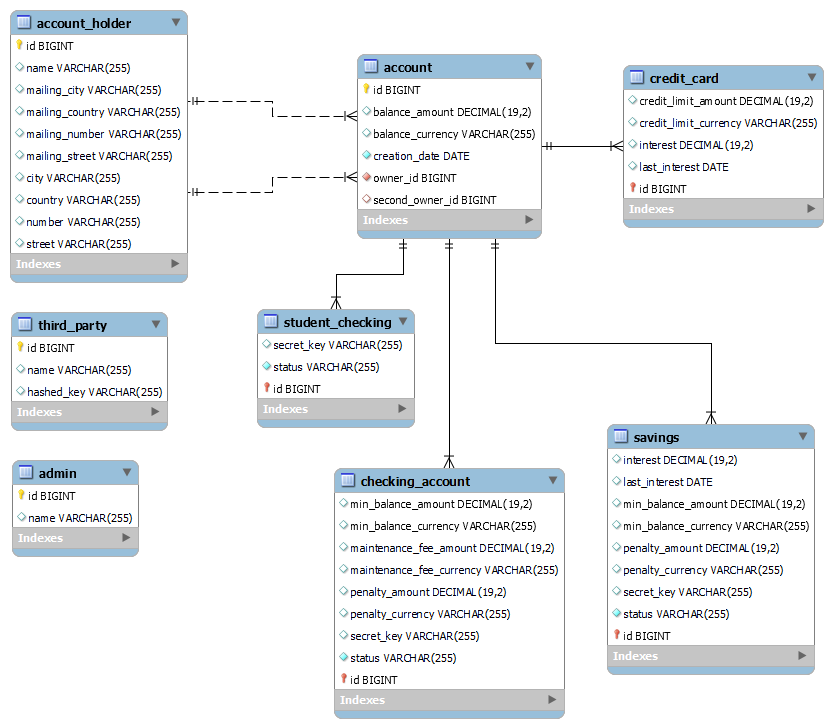
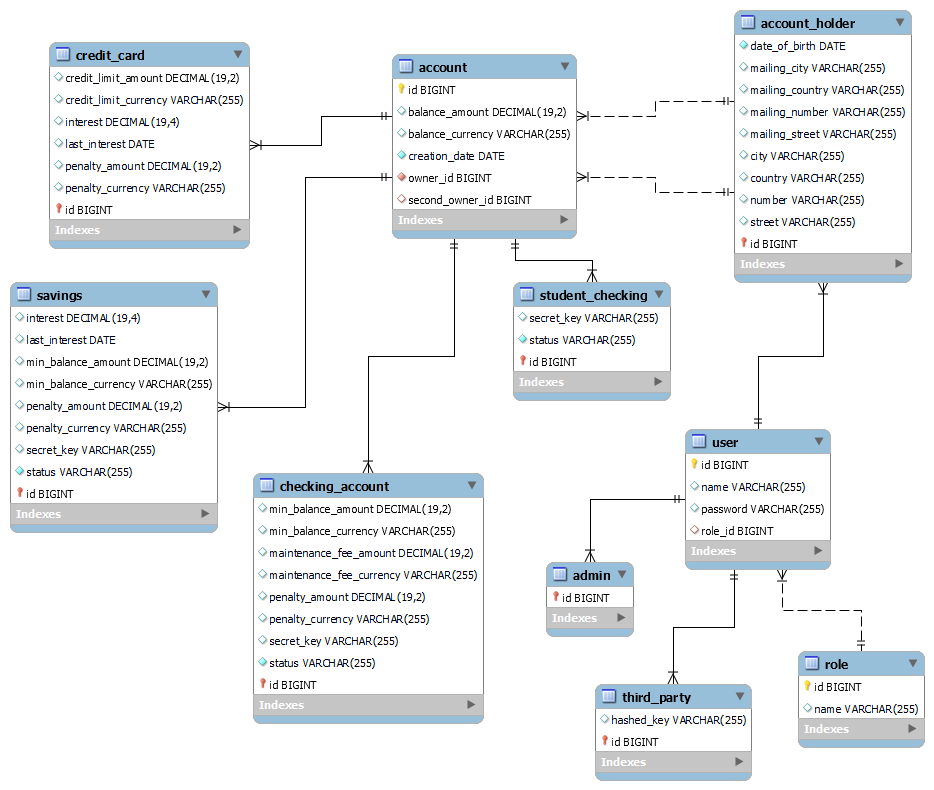
add: database script, database diagram, security configuration

diff --git a/src/test/java/com/ironhack/midterm/project/controller/impl/AccountControllerImplTest.java b/src/test/java/com/ironhack/midterm/project/controller/impl/AccountControllerImplTest.java
@@ -14,9 +14,9 @@ import com.ironhack.midterm.project.model.account.CreditCard;
 import com.ironhack.midterm.project.model.account.Savings;
 import com.ironhack.midterm.project.model.account.StudentChecking;
 import com.ironhack.midterm.project.model.users.AccountHolder;
+import com.ironhack.midterm.project.model.users.Admin;
 import com.ironhack.midterm.project.model.users.Role;
 import com.ironhack.midterm.project.model.users.ThirdParty;
-import com.ironhack.midterm.project.model.users.User;
 import com.ironhack.midterm.project.repository.*;
 import org.junit.jupiter.api.*;
 import org.springframework.beans.factory.annotation.Autowired;
@@ -32,6 +32,7 @@ import java.math.BigDecimal;
 import java.math.RoundingMode;
 import java.nio.charset.StandardCharsets;
 import java.time.LocalDate;
+import java.util.List;
 
 import static org.junit.jupiter.api.Assertions.*;
 import static org.springframework.test.web.servlet.request.MockMvcRequestBuilders.*;
@@ -47,6 +48,9 @@ class AccountControllerImplTest {
 
     @Autowired
     private UserRepository userRepository;
+
+    @Autowired
+    private AdminRepository adminRepository;
 
     @Autowired
     private AccountHolderRepository accountHolderRepository;
@@ -79,8 +83,10 @@ class AccountControllerImplTest {
 
     private final ObjectMapper objectMapper = new ObjectMapper();
 
-    private Role role;
+    private Role role1;
+    private Role role2;
     private AccountHolder accountHolder;
+    private Admin admin;
     private ThirdParty thirdParty;
     private CheckingAccount checkingAccount;
     private StudentChecking studentChecking;
@@ -93,19 +99,26 @@ class AccountControllerImplTest {
     void setUp() {
         mockMvc = MockMvcBuilders.webAppContextSetup(webApplicationContext).build();
 
-        role = new Role("ACCOUNTHOLDER");
-        roleRepository.save(role);
+        role1 = new Role("ACCOUNTHOLDER");
+        role2 = new Role("ADMIN");
+        roleRepository.saveAll(List.of(role1, role2));
 
         address = new Address("4B", "Sierpes", "Sevilla", "Spain");
 
         accountHolder = new AccountHolder();
         accountHolder.setName("Lucas Sánchez");
         accountHolder.setPassword(passwordEncoder.encode("123456"));
-        accountHolder.setRole(role);
+        accountHolder.setRole(role1);
         accountHolder.setDateOfBirth(LocalDate.of(1990, 10, 1));
         accountHolder.setPrimaryAddress(address);
         accountHolder.setMailingAddress(address);
         accountHolderRepository.save(accountHolder);
+
+        admin = new Admin();
+        admin.setName("admin");
+        admin.setPassword(passwordEncoder.encode("123456"));
+        admin.setRole(role2);
+        adminRepository.save(admin);
 
         thirdParty = new ThirdParty();
         thirdParty.setName("Third party");

diff --git a/src/main/java/com/ironhack/midterm/project/security/SecurityConfiguration.java b/src/main/java/com/ironhack/midterm/project/security/SecurityConfiguration.java
@@ -38,10 +38,11 @@ public class SecurityConfiguration extends WebSecurityConfigurerAdapter {
         http.httpBasic();
         http.csrf().disable();
         http.authorizeRequests()
-//                .mvcMatchers(HttpMethod.GET, "/hello-world").authenticated()
-//                .mvcMatchers(HttpMethod.GET, "/hello-me").authenticated()
-//                .mvcMatchers(HttpMethod.GET, "/hello/**").hasRole("ADMIN")
-//                .mvcMatchers(HttpMethod.POST, "/hello-post").hasAnyRole("ADMIN", "TECHNICIAN")
+                .mvcMatchers(HttpMethod.POST, "/users").hasRole("ADMIN")
+                .mvcMatchers(HttpMethod.POST, "/accounts").hasRole("ADMIN")
+                .mvcMatchers(HttpMethod.PUT, "/accounts").hasRole("ACCOUNTHOLDER")
+                .mvcMatchers(HttpMethod.PUT, "/accounts/**").hasRole("ADMIN")
+                .mvcMatchers(HttpMethod.GET, "/accounts/**").authenticated()
                 .anyRequest().permitAll();
 
     }

diff --git a/src/test/java/com/ironhack/midterm/project/controller/impl/UserControllerImplTest.java b/src/test/java/com/ironhack/midterm/project/controller/impl/UserControllerImplTest.java
@@ -57,6 +57,8 @@ class UserControllerImplTest {
         thirdPartyRepository.deleteAll();
     }
 
+    //TODO: Add basic auth to test
+
     @Test
     void store_ValidThirdParty_StatusCreated() throws Exception {
         UserDTO userDTO = new UserDTO();
